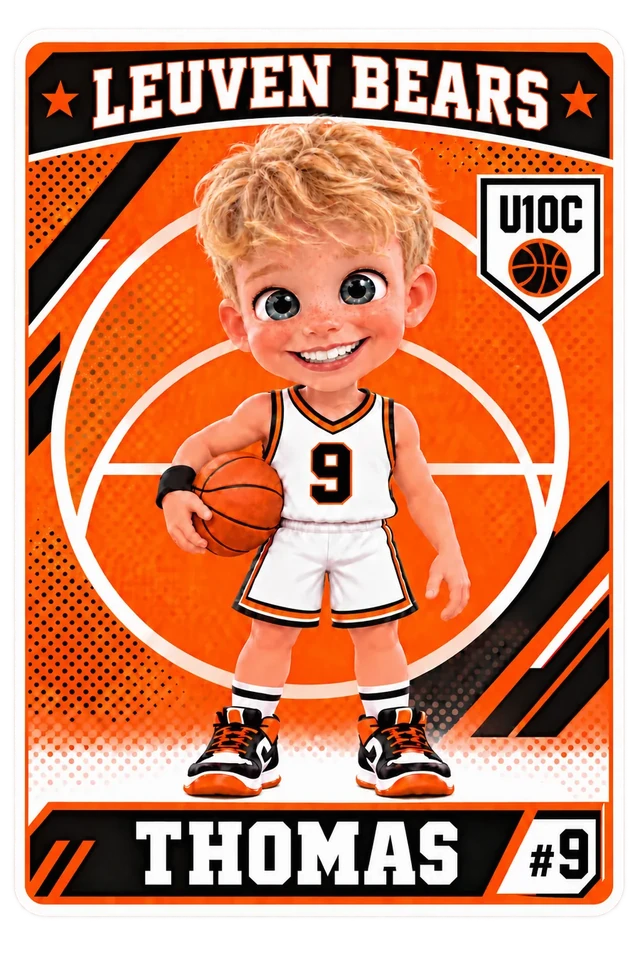
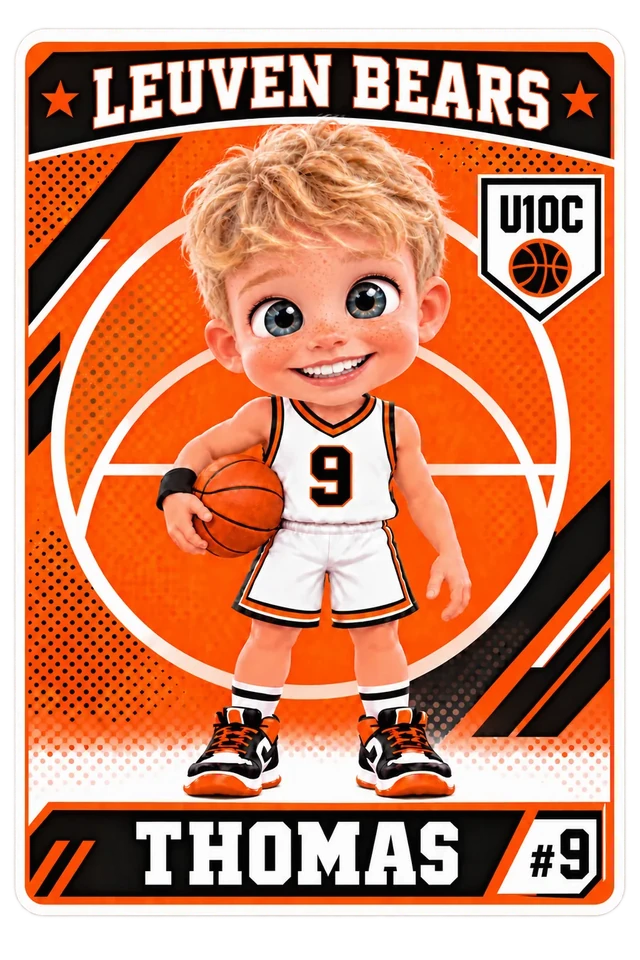
Put the latest Thomas #9 sticker on the preview.
Replace thomas.webp with the attached THOMAS card, keep Sam on sam.webp, and bust the Thomas cache query.

diff --git a/src/data/players.ts b/src/data/players.ts
@@ -51,7 +51,7 @@ export type Player = {
 /** Prefer explicit stickerSrc; Thomas still matches by first name as a fallback. */
 export function playerStickerSrc(player: Player): string | undefined {
   if (player.stickerSrc) return player.stickerSrc
-  if (player.firstName === 'Thomas') return '/stickers/thomas.webp?v=20260918n'
+  if (player.firstName === 'Thomas') return '/stickers/thomas.webp?v=20260918p'
   return undefined
 }
 
@@ -126,7 +126,7 @@ export const players: Player[] = [
     move: 'dunk',
     moveLabel: 'Dunk',
     look: { hair: '#e6c870', skin: '#eec4a2', hairStyle: 'short' },
-    stickerSrc: '/stickers/thomas.webp?v=20260918n',
+    stickerSrc: '/stickers/thomas.webp?v=20260918p',
   },
   {
     id: 'p9',
